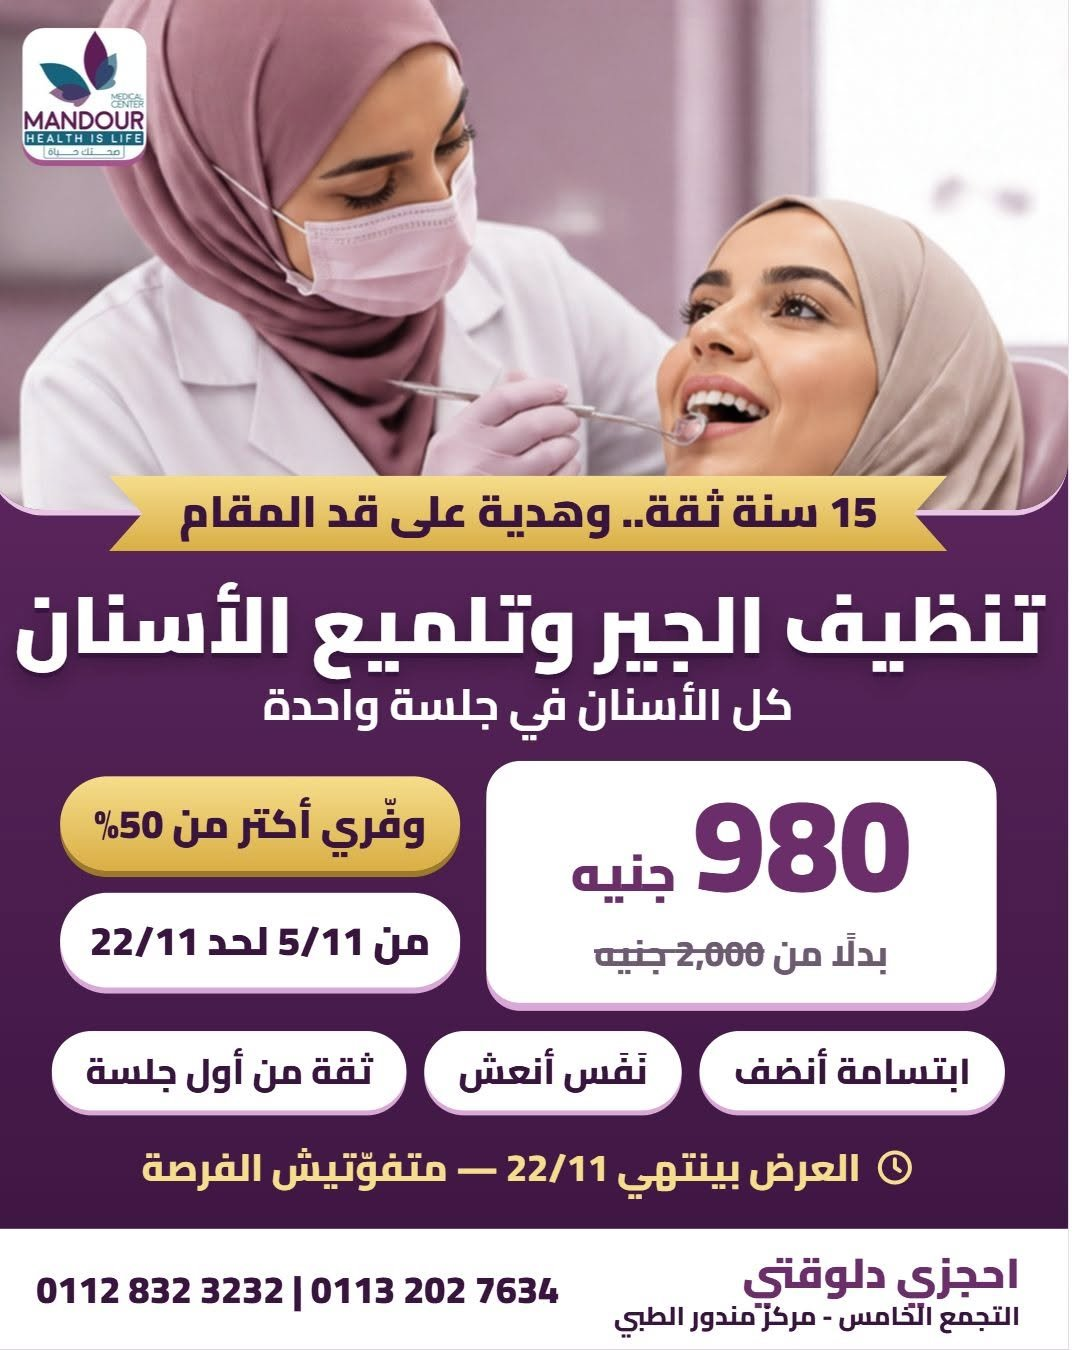
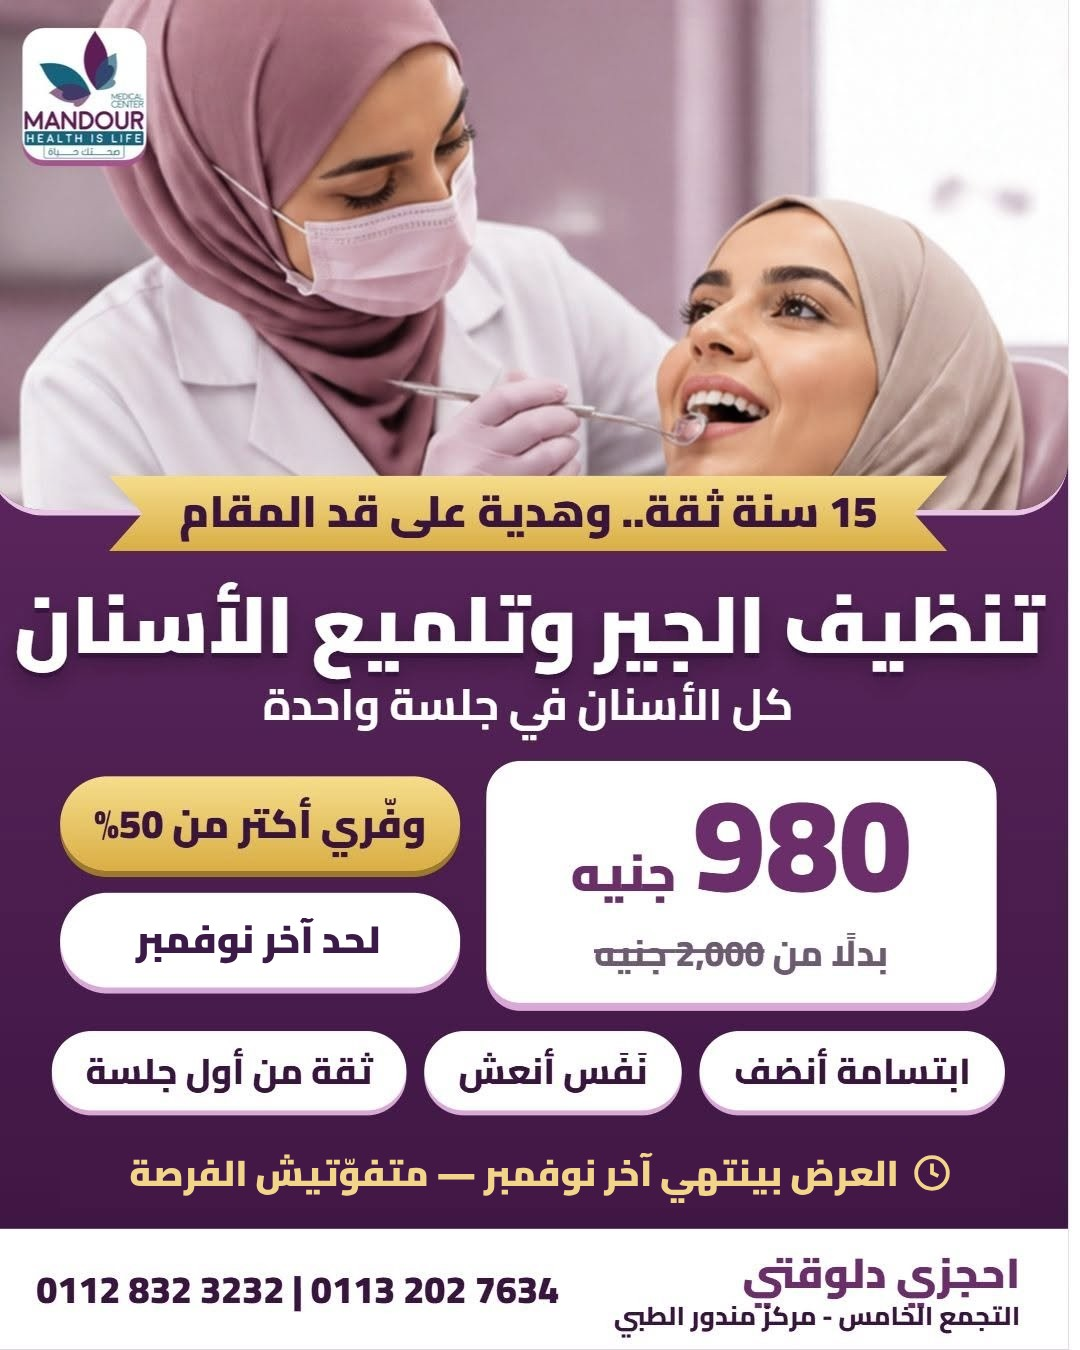
Dental offers: unify all offer end dates to end of November
Claude-Session: https://claude.ai/code/session_01WjHwhAuq6vhNTayDo6wskv

Changed region(s): [[0.1222, 0.84, 0.8861, 0.9022], [0.0917, 0.6844, 0.3972, 0.7156]]

diff --git a/dental-offers.html b/dental-offers.html
@@ -100,7 +100,7 @@ footer a{color:var(--teal)}
    <a class="btn wa" data-track="hero_whatsapp" href="https://wa.me/201128323232?text=%D8%A7%D9%84%D8%B3%D9%84%D8%A7%D9%85%20%D8%B9%D9%84%D9%8A%D9%83%D9%85%D8%8C%20%D8%B9%D8%A7%D9%8A%D8%B2%20%D8%A3%D8%B9%D8%B1%D9%81%20%D8%AA%D9%81%D8%A7%D8%B5%D9%8A%D9%84%20%D8%B9%D8%B1%D8%B6%20%D8%B2%D8%B1%D8%A7%D8%B9%D8%A9%20%D8%A7%D9%84%D9%81%D9%83%D9%8A%D9%86%20%D8%A8%D8%A7%D9%84%D9%83%D8%A7%D9%85%D9%84%20%D9%88%D8%A7%D9%84%D8%AA%D9%82%D8%B3%D9%8A%D8%B7" target="_blank" rel="noopener">احجز كشفك على واتساب</a>
    <a class="btn call" data-track="hero_call" href="tel:+201128323232">📞 اتصل الآن</a>
   </div>
-  <div class="trust"><span>✓ متاح التقسيط</span><span>✓ العرض لحد آخر نوفمبر</span><span>✓ العدد محدود</span></div>
+  <div class="trust"><span>✓ متاح التقسيط</span><span>✓ كل العروض لحد آخر نوفمبر</span><span>✓ العدد محدود</span></div>
  </div>
  <img src="assets/offer-full-mouth-implants.jpg" alt="عرض زراعة الفكين بالكامل بالتركيبات — مركز مندور الطبي">
 </div></section>
@@ -119,7 +119,7 @@ footer a{color:var(--teal)}
 </div></section>
 
 <section style="padding-top:0"><div class="wrap">
- <h2>عروض الأسنان لفترة محدودة</h2>
+ <h2>عروض الأسنان — لحد آخر نوفمبر</h2>
  <p class="lead">اختار العرض اللي يناسبك، واحجز على واتساب في ثواني.</p>
  <div class="offers"><article class="offer big">
   <img src="assets/offer-full-mouth-implants.jpg" alt="زراعة الفكين بالكامل بالتركيبات — مركز مندور الطبي" loading="lazy">
@@ -135,7 +135,7 @@ footer a{color:var(--teal)}
   <div class="ob">
     <h3>زراعة الأسنان</h3>
     <div class="price"><b>8,950</b> ج.م <s>بدلاً من 11,000</s></div>
-    <div class="note">للزرعة الواحدة</div>
+    <div class="note">للزرعة الواحدة — لحد آخر نوفمبر</div>
     <ul><li>زرعة ثابتة بدون طقم متحرك</li><li>تشخيص وخطة علاج قبل البدء</li><li>على يد استشاري زراعة الفك والأسنان</li></ul>
     <a class="btn wa" data-track="offer_whatsapp" href="https://wa.me/201128323232?text=%D8%A7%D9%84%D8%B3%D9%84%D8%A7%D9%85%20%D8%B9%D9%84%D9%8A%D9%83%D9%85%D8%8C%20%D8%B9%D8%A7%D9%8A%D8%B2%20%D8%A3%D8%AD%D8%AC%D8%B2%20%D8%B9%D8%B1%D8%B6%20%D8%B2%D8%B1%D8%A7%D8%B9%D8%A9%20%D8%A7%D9%84%D8%A3%D8%B3%D9%86%D8%A7%D9%86" target="_blank" rel="noopener">احجز العرض على واتساب</a>
   </div>
@@ -144,7 +144,7 @@ footer a{color:var(--teal)}
   <div class="ob">
     <h3>الفينيرز – ابتسامة هوليوود</h3>
     <div class="price"><b>4,000</b> ج.م <s>بدلاً من 6,000</s></div>
-    <div class="note">للوحدة الواحدة</div>
+    <div class="note">للوحدة الواحدة — لحد آخر نوفمبر</div>
     <ul><li>تصميم ابتسامة على مقاس وشّك</li><li>لون طبيعي يدوم</li><li>قبل وبعد تشوفه بنفسك</li></ul>
     <a class="btn wa" data-track="offer_whatsapp" href="https://wa.me/201128323232?text=%D8%A7%D9%84%D8%B3%D9%84%D8%A7%D9%85%20%D8%B9%D9%84%D9%8A%D9%83%D9%85%D8%8C%20%D8%B9%D8%A7%D9%8A%D8%B2%20%D8%A3%D8%AD%D8%AC%D8%B2%20%D8%B9%D8%B1%D8%B6%20%D8%A7%D9%84%D9%81%D9%8A%D9%86%D9%8A%D8%B1%D8%B2" target="_blank" rel="noopener">احجز العرض على واتساب</a>
   </div>
@@ -153,7 +153,7 @@ footer a{color:var(--teal)}
   <div class="ob">
     <h3>الحشو التجميلي</h3>
     <div class="price"><b>1,800</b> ج.م <s>بدلاً من 2,500</s></div>
-    <div class="note">للحشوة الواحدة</div>
+    <div class="note">للحشوة الواحدة — لحد آخر نوفمبر</div>
     <ul><li>حشو بلون السنة</li><li>جلسة مريحة بدون ألم</li><li>علاج بدري يوفّر عليك عصب وخلع</li></ul>
     <a class="btn wa" data-track="offer_whatsapp" href="https://wa.me/201128323232?text=%D8%A7%D9%84%D8%B3%D9%84%D8%A7%D9%85%20%D8%B9%D9%84%D9%8A%D9%83%D9%85%D8%8C%20%D8%B9%D8%A7%D9%8A%D8%B2%20%D8%A3%D8%AD%D8%AC%D8%B2%20%D8%B9%D8%B1%D8%B6%20%D8%A7%D9%84%D8%AD%D8%B4%D9%88%D8%A7%D8%AA" target="_blank" rel="noopener">احجز العرض على واتساب</a>
   </div>
@@ -162,7 +162,7 @@ footer a{color:var(--teal)}
   <div class="ob">
     <h3>تنظيف الجير وتلميع الأسنان</h3>
     <div class="price"><b>980</b> ج.م <s>بدلاً من 2,000</s></div>
-    <div class="note">كل الأسنان في جلسة — لحد 22/11</div>
+    <div class="note">كل الأسنان في جلسة — لحد آخر نوفمبر</div>
     <ul><li>ابتسامة أنضف</li><li>نفَس أنعش</li><li>ثقة من أول جلسة</li></ul>
     <a class="btn wa" data-track="offer_whatsapp" href="https://wa.me/201128323232?text=%D8%A7%D9%84%D8%B3%D9%84%D8%A7%D9%85%20%D8%B9%D9%84%D9%8A%D9%83%D9%85%D8%8C%20%D8%B9%D8%A7%D9%8A%D8%B2%20%D8%A3%D8%AD%D8%AC%D8%B2%20%D8%B9%D8%B1%D8%B6%20%D8%AA%D9%86%D8%B8%D9%8A%D9%81%20%D8%A7%D9%84%D8%AC%D9%8A%D8%B1%20%D9%88%D8%A7%D9%84%D8%AA%D9%84%D9%85%D9%8A%D8%B9" target="_blank" rel="noopener">احجز العرض على واتساب</a>
   </div>
